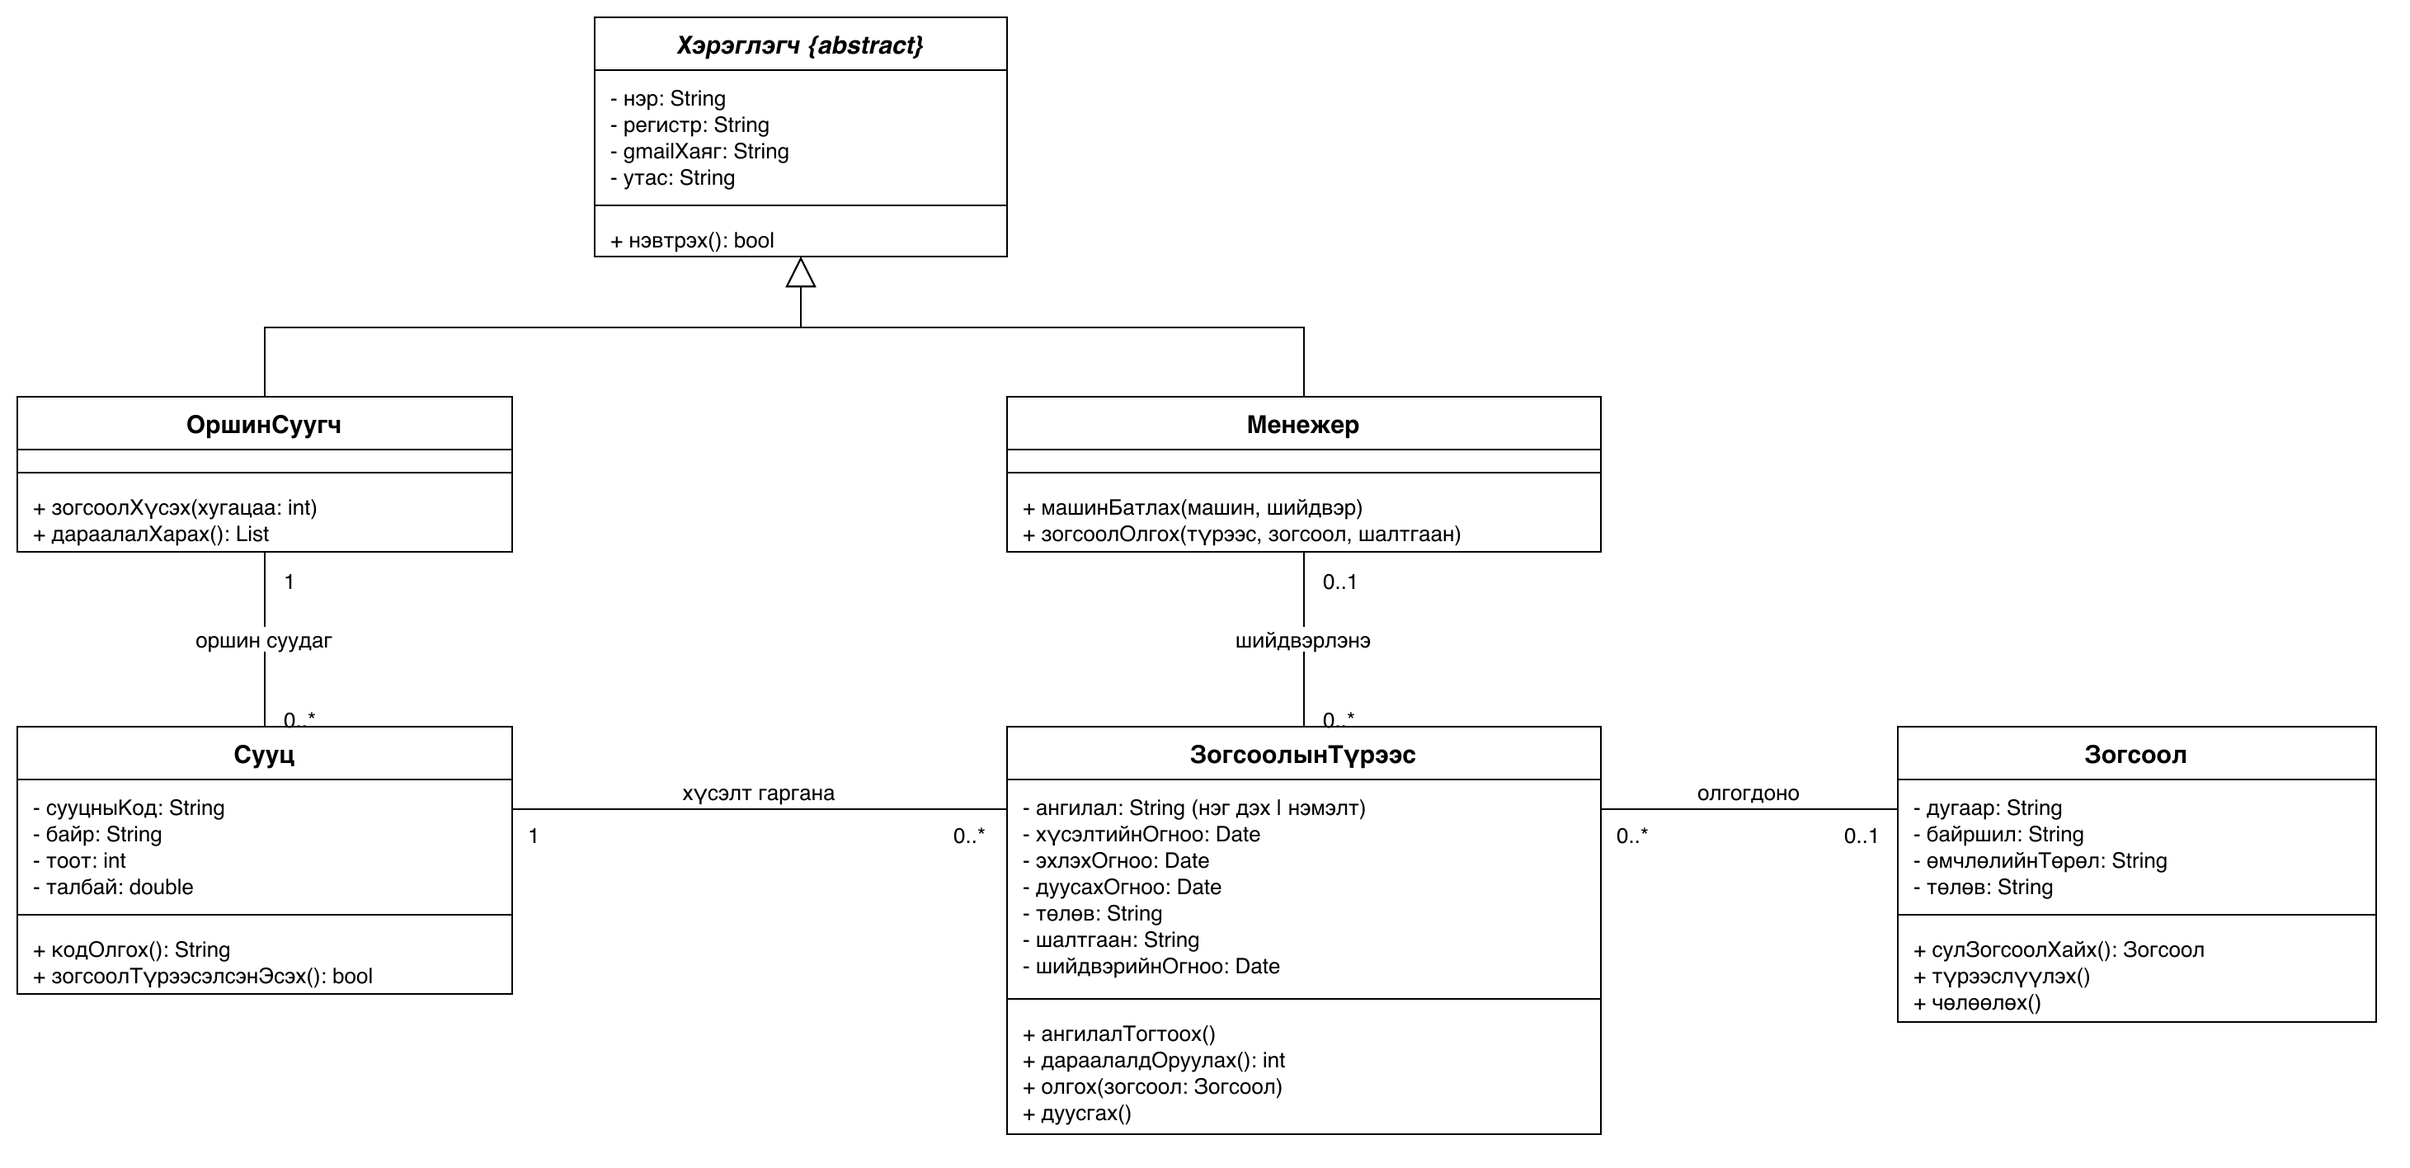
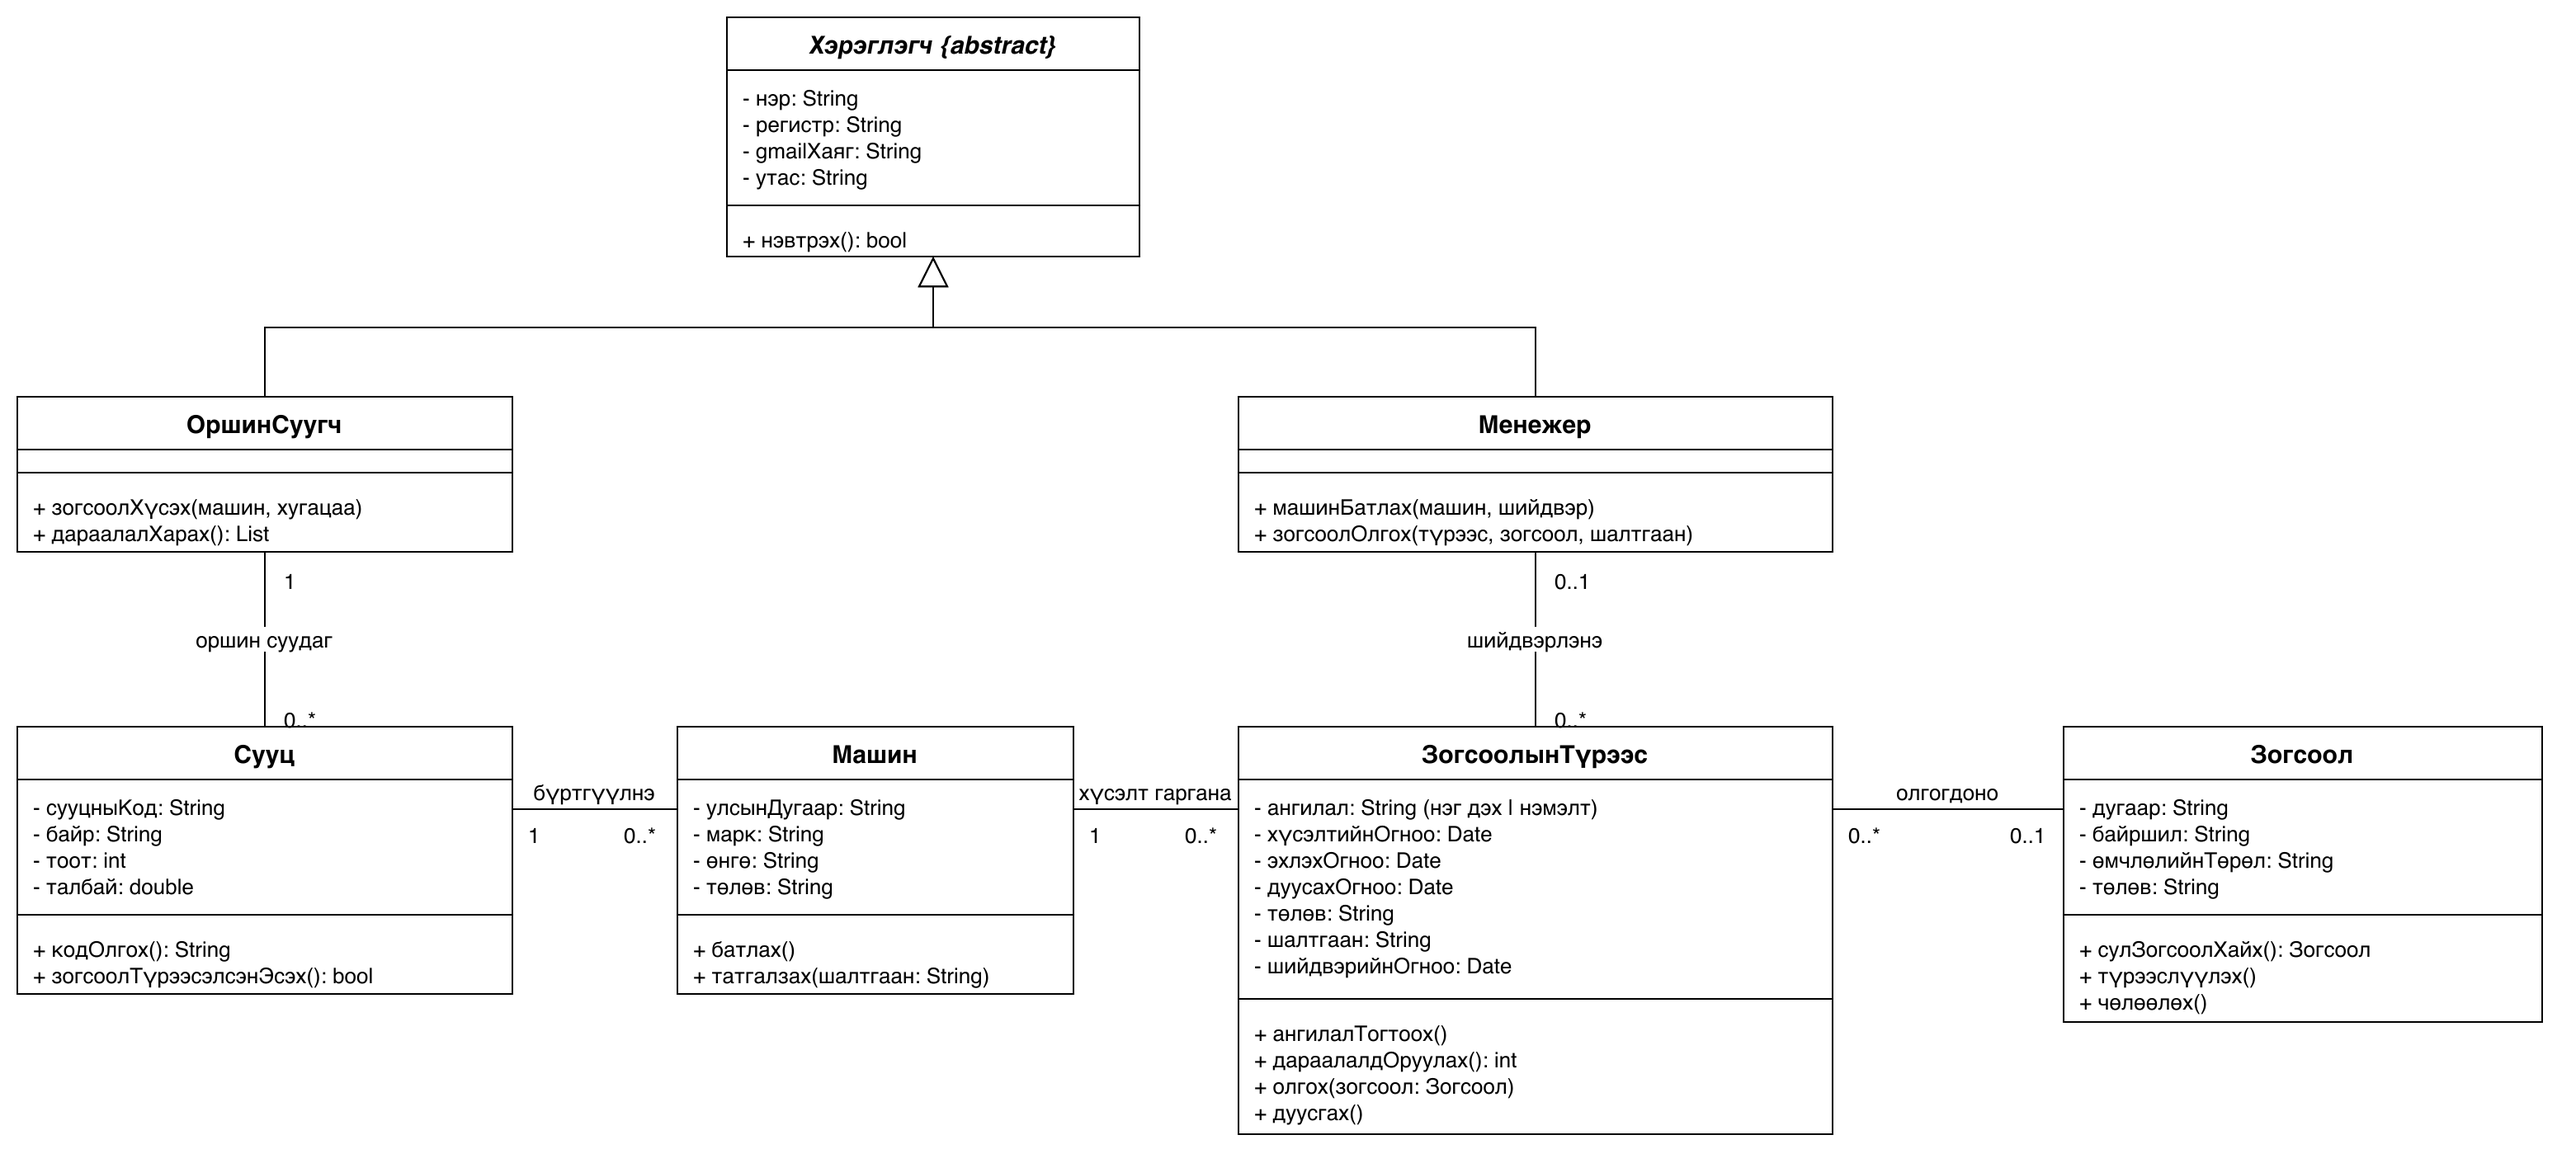
Загвар: зогсоолын түрээсийг машинтай холбов (ERD, Лаб 5)

diff --git a/docs/lab5.md b/docs/lab5.md
@@ -44,7 +44,7 @@ US-01 (Gmail-ээр нэвтрэх) нь тусдаа use case биш, бүх us
 
 ## 4. Class диаграм
 
-Системийн үндсэн дөрвөн объектыг сонгов: **Хэрэглэгч, Сууц, ЗогсоолынТүрээс, Зогсоол**. Хэрэглэгч нь хийсвэр (abstract) класс бөгөөд ОршинСуугч, Менежер хоёр түүнээс удамшина.
+Системийн үндсэн таван объектыг сонгов: **Хэрэглэгч, Сууц, Машин, ЗогсоолынТүрээс, Зогсоол**. Хэрэглэгч нь хийсвэр (abstract) класс бөгөөд ОршинСуугч, Менежер хоёр түүнээс удамшина.
 
 | Класс | Үүрэг |
 |---|---|
@@ -52,18 +52,20 @@ US-01 (Gmail-ээр нэвтрэх) нь тусдаа use case биш, бүх us
 | ОршинСуугч | Зогсоол хүсэж, дарааллаа харна. |
 | Менежер | Машин баталгаажуулж, зогсоол олгоно. |
 | Сууц | Сууцны код, байр, тоот. Өөр зогсоол түрээсэлж байгаа эсэхийг хариулна. Дарааллын ангилал үүнээс хамаарна. |
-| ЗогсоолынТүрээс | Хүсэлтээс дуусах хүртэлх нэг түрээс. Ангилал (нэг дэх, нэмэлт), төлөв, шалтгааныг хадгална. |
+| Машин | Улсын дугаар, марк, өнгө, төлөв. Менежер баталгаажуулсан машинд л зогсоол хүснэ. |
+| ЗогсоолынТүрээс | Хүсэлтээс дуусах хүртэлх нэг машины түрээс. Ангилал (нэг дэх, нэмэлт), төлөв, шалтгааныг хадгална. |
 | Зогсоол | Дугаар, байршил, өмчлөлийн төрөл (дундын, хувийн), төлөв. |
 
 Холбоо ба үржвэр:
 
 - **Удамшил:** ОршинСуугч, Менежер → Хэрэглэгч (хоосон гурвалжин сум).
 - **ОршинСуугч 1 — 0..\* Сууц:** сууц бүр яг нэг хариуцах оршин суугчтай, харин нэг хүн хоёр сууцтай байх тохиолдол бий.
-- **Сууц 1 — 0..\* ЗогсоолынТүрээс:** нэг сууц нэмэлт машиндаа дахин хүсэлт гаргана.
+- **Сууц 1 — 0..\* Машин:** сууц машингүй ч, хэд хэдэн машинтай ч байна.
+- **Машин 1 — 0..\* ЗогсоолынТүрээс:** түрээс тодорхой машинд зориулагдана. Цаг хугацааны явцад нэг машин олон түрээстэй ч нэгэн зэрэг нэг л идэвхтэй түрээстэй.
 - **Менежер 0..1 — 0..\* ЗогсоолынТүрээс:** хүлээгдэж буй хүсэлтэд шийдвэр гаргасан менежер хараахан байхгүй.
 - **ЗогсоолынТүрээс 0..\* — 0..1 Зогсоол:** дараалалд байгаа хүсэлт зогсоолгүй, олгогдсоны дараа нэг зогсоолтой. Нэг зогсоол цаг хугацааны явцад олон түрээстэй.
 
-Машин, Нэхэмжлэх, Төлбөр классыг лабын «4–5 объект» гэсэн шаардлагын дагуу энэ диаграмд оруулаагүй.
+Нэхэмжлэх, Төлбөр классыг лабын «4–5 объект» гэсэн шаардлагын дагуу энэ диаграмд оруулаагүй.
 
 ![Зураг 2. Class диаграм](img/lab5-class.png)
 
@@ -71,7 +73,7 @@ US-01 (Gmail-ээр нэвтрэх) нь тусдаа use case биш, бүх us
 
 Энэ нь US-06, US-07, US-09-ийн урсгал. Оролцогчид нь архитектурын гурван давхаргатай таарна.
 
-1. Оршин суугч хугацаа сонгож хүсэлт илгээнэ.
+1. Оршин суугч зогсоолгүй машинаа, хугацаагаа сонгож хүсэлт илгээнэ.
 2. Дэлгэц хүсэлтийг үйлчилгээ рүү дамжуулна.
 3. Үйлчилгээ тухайн сууцны идэвхтэй түрээсийг өгөгдлийн сангаас тоолно. 0 бол «нэг дэх», 1 ба түүнээс олон бол «нэмэлт» машин.
 4. Түрээсийг «Хүлээгдэж буй» төлөвтэй хадгалж, сул зогсоол хайна.
@@ -100,13 +102,13 @@ US-01 (Gmail-ээр нэвтрэх) нь тусдаа use case биш, бүх us
 
 ## 7. Дүгнэлт
 
-Лаб 2-ын 15 story-гоос 3 тоглогч, 10 use case-тэй Use Case диаграм, 4 үндсэн объект ба удамшилтай Class диаграм, «Зогсоол түрээслэх» урсгалын Sequence диаграмыг draw.io-д зурав. Sequence диаграмын оролцогчид архитектурын давхаргатай нийцнэ. Хоёр хүнтэй баг, нэг СӨХ-ийн ачаалал, зогсоолыг давхар олгохоос сэргийлэх шаардлагад тулгуурлан давхаргат монолит архитектурыг сонгов.
+Лаб 2-ын 15 story-гоос 3 тоглогч, 10 use case-тэй Use Case диаграм, 5 үндсэн объект ба удамшилтай Class диаграм, «Зогсоол түрээслэх» урсгалын Sequence диаграмыг draw.io-д зурав. Sequence диаграмын оролцогчид архитектурын давхаргатай нийцнэ. Хоёр хүнтэй баг, нэг СӨХ-ийн ачаалал, зогсоолыг давхар олгохоос сэргийлэх шаардлагад тулгуурлан давхаргат монолит архитектурыг сонгов.
 
 ## Биелэлтийн шалгуур
 
 - [x] Диаграмыг draw.io форматаар хийсэн (эх файл `docs/drawio/`)
 - [x] Use Case: Лаб 2-ын хэрэглэгчид тоглогч болж, 10 use case-тэй холбогдсон
-- [x] Class: 4 үндсэн объект, attribute, method, association, inheritance
+- [x] Class: 5 үндсэн объект, attribute, method, association, inheritance
 - [x] Sequence: нэг гол урсгал, хэрэглэгч → систем → өгөгдлийн сан
 - [x] Архитектурын эскиз (Layered) ба 3–4 өгүүлбэр үндэслэл
 - [x] Бүгдийг нэг PDF болгосон

diff --git a/docs/design.md b/docs/design.md
@@ -20,7 +20,7 @@
 | Сууц | Байр, орц, давхар, тоот, талбай, сууцны код, оршин суугч | US-02, US-14 |
 | Зогсоол | Дугаар, байршил, өмчлөлийн төрөл (дундын, хувийн), төлөв | US-03 |
 | Машин | Улсын дугаар, марк, өнгө, төлөв | US-04, US-05 |
-| Зогсоолын түрээс | Хүсэлт, ангилал (нэг дэх, нэмэлт машин), хугацаа, шийдвэр гаргасан менежер ба огноо, шалтгаан | US-06 … US-11 |
+| Зогсоолын түрээс | Хүсэлт гаргасан машин, ангилал (нэг дэх, нэмэлт машин), хугацаа, шийдвэр гаргасан менежер ба огноо, шалтгаан | US-06 … US-11 |
 | Нэхэмжлэх | Сарын дүн, алданги, төлөх хугацаа, төлөв | US-12, US-13, US-14 |
 | Төлбөр | Төлсөн дүн, огноо, банк, гүйлгээний дугаар | US-13, US-14 |
 
